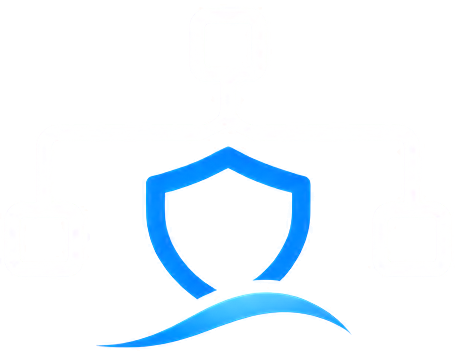
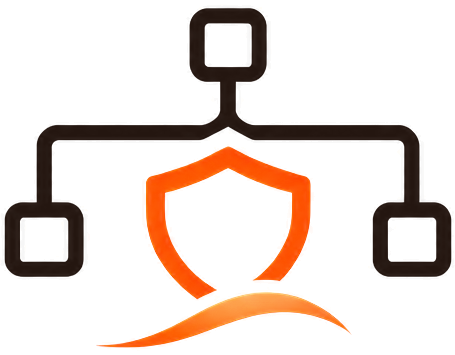
feat(frontend): light theme in the Flame Orange palette (#41)
* feat(frontend): light theme in the Flame Orange palette

Seashell background, Powder Petal secondary/accent/muted and Flame
Orange primary replace the dark theme. Status and brand text get a
darker step than their fills through --text-color-* overrides, so the
badges stay readable on the light surfaces.

* feat(frontend): landing page and logo in the new palette

Changed region(s): [[0.0, 0.0, 1.0, 0.9915]]

diff --git a/apps/frontend/src/index.css b/apps/frontend/src/index.css
@@ -6,7 +6,28 @@
 @custom-variant dark (&:is(.dark *));
 
 @theme inline {
-    --color-brand: oklch(0.65 0.2 255);
+    --color-brand: var(--primary);
+    /* Text only: on the light surfaces these tones need a darker step than their fills and borders. */
+    --text-color-brand: #c23e00;
+    --text-color-emerald-400: var(--color-emerald-700);
+    --text-color-emerald-500: var(--color-emerald-700);
+    --text-color-red-400: var(--color-red-700);
+    --text-color-red-500: var(--color-red-700);
+    --text-color-red-600: var(--color-red-700);
+    --text-color-orange-400: var(--color-orange-700);
+    --text-color-orange-500: var(--color-orange-700);
+    --text-color-orange-600: var(--color-orange-700);
+    /* Amber text is the yellow step: amber-700 is too close to orange-700 on this palette. */
+    --text-color-amber-200: var(--color-amber-900);
+    --text-color-amber-400: var(--color-yellow-700);
+    --text-color-amber-500: var(--color-yellow-700);
+    --text-color-amber-600: var(--color-yellow-700);
+    --text-color-sky-400: var(--color-sky-700);
+    --text-color-sky-500: var(--color-sky-700);
+    --text-color-sky-600: var(--color-sky-700);
+    --text-color-violet-400: var(--color-violet-700);
+    --text-color-fuchsia-400: var(--color-fuchsia-700);
+    --text-color-fuchsia-600: var(--color-fuchsia-700);
     --font-heading: var(--font-sans);
     --font-sans: 'Geist Variable', sans-serif;
     --color-sidebar-ring: var(--sidebar-ring);
@@ -50,72 +71,38 @@
 }
 
 :root {
-    --background: oklch(1 0 0);
-    --foreground: oklch(0.145 0 0);
-    --card: oklch(1 0 0);
-    --card-foreground: oklch(0.145 0 0);
-    --popover: oklch(1 0 0);
-    --popover-foreground: oklch(0.145 0 0);
-    --primary: oklch(0.205 0 0);
-    --primary-foreground: oklch(0.985 0 0);
-    --secondary: oklch(0.97 0 0);
-    --secondary-foreground: oklch(0.205 0 0);
-    --muted: oklch(0.97 0 0);
-    --muted-foreground: oklch(0.556 0 0);
-    --accent: oklch(0.97 0 0);
-    --accent-foreground: oklch(0.205 0 0);
-    --destructive: oklch(0.577 0.245 27.325);
-    --border: oklch(0.922 0 0);
-    --input: oklch(0.922 0 0);
-    --ring: oklch(0.708 0 0);
-    --chart-1: oklch(0.87 0 0);
-    --chart-2: oklch(0.556 0 0);
-    --chart-3: oklch(0.439 0 0);
-    --chart-4: oklch(0.371 0 0);
-    --chart-5: oklch(0.269 0 0);
+    --background: #fff1eb;
+    --foreground: #241610;
+    --card: #fffaf7;
+    --card-foreground: #241610;
+    --popover: #fffaf7;
+    --popover-foreground: #241610;
+    --primary: #fd5200;
+    --primary-foreground: #241610;
+    --secondary: #ffe3d6;
+    --secondary-foreground: #241610;
+    --muted: #ffe3d6;
+    --muted-foreground: #775a4e;
+    --accent: #ffe3d6;
+    --accent-foreground: #241610;
+    --destructive: #c2152f;
+    --border: #efcdbd;
+    --input: #e8bfac;
+    --ring: #fd5200;
+    --chart-1: #ffb48a;
+    --chart-2: #fd5200;
+    --chart-3: #c23e00;
+    --chart-4: #8a2f0a;
+    --chart-5: #552110;
     --radius: 0.625rem;
-    --sidebar: oklch(0.985 0 0);
-    --sidebar-foreground: oklch(0.145 0 0);
-    --sidebar-primary: oklch(0.205 0 0);
-    --sidebar-primary-foreground: oklch(0.985 0 0);
-    --sidebar-accent: oklch(0.97 0 0);
-    --sidebar-accent-foreground: oklch(0.205 0 0);
-    --sidebar-border: oklch(0.922 0 0);
-    --sidebar-ring: oklch(0.708 0 0);
-}
-
-.dark {
-    --background: oklch(0.13 0.02 260);
-    --foreground: oklch(0.985 0 0);
-    --card: oklch(0.18 0.025 260);
-    --card-foreground: oklch(0.985 0 0);
-    --popover: oklch(0.205 0 0);
-    --popover-foreground: oklch(0.985 0 0);
-    --primary: oklch(0.65 0.2 255);
-    --primary-foreground: oklch(0.985 0 0);
-    --secondary: oklch(0.269 0 0);
-    --secondary-foreground: oklch(0.985 0 0);
-    --muted: oklch(0.269 0 0);
-    --muted-foreground: oklch(0.708 0 0);
-    --accent: oklch(0.269 0 0);
-    --accent-foreground: oklch(0.985 0 0);
-    --destructive: oklch(0.704 0.191 22.216);
-    --border: oklch(1 0 0 / 10%);
-    --input: oklch(1 0 0 / 15%);
-    --ring: oklch(0.556 0 0);
-    --chart-1: oklch(0.87 0 0);
-    --chart-2: oklch(0.556 0 0);
-    --chart-3: oklch(0.439 0 0);
-    --chart-4: oklch(0.371 0 0);
-    --chart-5: oklch(0.269 0 0);
-    --sidebar: oklch(0.205 0 0);
-    --sidebar-foreground: oklch(0.985 0 0);
-    --sidebar-primary: oklch(0.488 0.243 264.376);
-    --sidebar-primary-foreground: oklch(0.985 0 0);
-    --sidebar-accent: oklch(0.269 0 0);
-    --sidebar-accent-foreground: oklch(0.985 0 0);
-    --sidebar-border: oklch(1 0 0 / 10%);
-    --sidebar-ring: oklch(0.556 0 0);
+    --sidebar: #fffaf7;
+    --sidebar-foreground: #241610;
+    --sidebar-primary: #fd5200;
+    --sidebar-primary-foreground: #241610;
+    --sidebar-accent: #ffe3d6;
+    --sidebar-accent-foreground: #241610;
+    --sidebar-border: #efcdbd;
+    --sidebar-ring: #fd5200;
 }
 
 @layer base {
@@ -155,13 +142,12 @@
   .wave-ribbon { animation: none; }
 }
 
-/* Reports print on white paper: the dark theme's tokens switch to the light ones. */
+/* Reports print on white paper: the tinted surfaces switch to neutral ones. */
 @media print {
   @page {
     margin: 14mm 12mm;
   }
-  .dark {
-    color-scheme: light;
+  :root {
     --background: oklch(1 0 0);
     --foreground: oklch(0.145 0 0);
     --card: oklch(1 0 0);

diff --git a/apps/frontend/src/features/landing/components/wave-background.tsx b/apps/frontend/src/features/landing/components/wave-background.tsx
@@ -7,7 +7,7 @@ const RIBBONS = [
 
 export function WaveBackground() {
   return (
-    <div aria-hidden className="pointer-events-none absolute inset-0 overflow-hidden bg-[#010409]">
+    <div aria-hidden className="pointer-events-none absolute inset-0 overflow-hidden bg-background">
       <svg
         className="size-full"
         viewBox="0 0 1672 941"
@@ -16,13 +16,13 @@ export function WaveBackground() {
       >
         <defs>
           <linearGradient id="wave-stroke" x1="0" y1="0" x2="1" y2="0">
-            <stop offset="0" stopColor="#0a4dff" stopOpacity="0.9" />
-            <stop offset="0.5" stopColor="#1d8bff" stopOpacity="0.55" />
-            <stop offset="1" stopColor="#3aa0ff" stopOpacity="0.95" />
+            <stop offset="0" stopColor="#fd5200" stopOpacity="0.9" />
+            <stop offset="0.5" stopColor="#ff8a4c" stopOpacity="0.55" />
+            <stop offset="1" stopColor="#ffa545" stopOpacity="0.95" />
           </linearGradient>
           <radialGradient id="wave-glow" cx="0.5" cy="0.45" r="0.6">
-            <stop offset="0" stopColor="#0b2a6b" stopOpacity="0.35" />
-            <stop offset="1" stopColor="#010409" stopOpacity="0" />
+            <stop offset="0" stopColor="#ffe3d6" stopOpacity="0.9" />
+            <stop offset="1" stopColor="#fff1eb" stopOpacity="0" />
           </radialGradient>
           <filter id="wave-blur" x="-10%" y="-30%" width="120%" height="160%">
             <feGaussianBlur stdDeviation="22" />
@@ -40,7 +40,7 @@ export function WaveBackground() {
           </g>
         ))}
       </svg>
-      <div className="absolute inset-0 bg-linear-to-b from-transparent via-transparent to-[#010409]/80" />
+      <div className="absolute inset-0 bg-linear-to-b from-transparent via-transparent to-background/80" />
     </div>
   );
 }

diff --git a/apps/frontend/src/features/landing/components/landing-header.tsx b/apps/frontend/src/features/landing/components/landing-header.tsx
@@ -17,14 +17,14 @@ export function LandingHeader({ signInHref, ctaHref }: { signInHref: string; cta
     <header className="relative z-10 mx-auto grid w-full max-w-[1500px] grid-cols-[1fr_auto_1fr] items-center px-6 py-5 sm:px-10">
       <Link to="/" className="flex items-center gap-3 justify-self-start">
         <Logo variant="icon" label={t("landing.logoAlt")} className="w-16" />
-        <span className="text-3xl font-bold tracking-tight text-white">
+        <span className="text-3xl font-bold tracking-tight text-foreground">
           Sub<span className="text-brand">Surf</span>
         </span>
       </Link>
 
       <nav aria-label={t("landing.nav.label")} className="hidden items-center gap-14 justify-self-center md:flex">
         {NAV_ITEMS.map(({ key, href }) => (
-          <a key={key} href={href} className="text-white/90 transition-colors hover:text-brand">
+          <a key={key} href={href} className="text-foreground/90 transition-colors hover:text-brand">
             {t(`landing.nav.${key}`)}
           </a>
         ))}
@@ -34,11 +34,11 @@ export function LandingHeader({ signInHref, ctaHref }: { signInHref: string; cta
         <button
           type="button"
           onClick={() => void i18n.changeLanguage(nextLanguage)}
-          className="text-sm text-white/60 transition-colors hover:text-white"
+          className="text-sm text-foreground/60 transition-colors hover:text-foreground"
         >
           {t("language.switchTo")}
         </button>
-        <Link to={signInHref} className="hidden text-white/90 transition-colors hover:text-white sm:block">
+        <Link to={signInHref} className="hidden text-foreground/90 transition-colors hover:text-foreground sm:block">
           {t("landing.signIn")}
         </Link>
         <Link

diff --git a/apps/frontend/src/app/routes/scan-visualize.tsx b/apps/frontend/src/app/routes/scan-visualize.tsx
@@ -255,7 +255,7 @@ export function ScanVisualizeRoute() {
         style: nodeStyle,
         draggable: false,
       });
-      nextEdges.push({ id: `${parentId}:${branch.id}`, source: parentId, target: branch.id, type: "smoothstep", style: { stroke: "#64748b", strokeWidth: 2 } });
+      nextEdges.push({ id: `${parentId}:${branch.id}`, source: parentId, target: branch.id, type: "smoothstep", style: { stroke: "var(--muted-foreground)", strokeWidth: 2 } });
     }
     return { nodes: nextNodes, edges: nextEdges };
   }, [tree, visible, expanded, t, th, activateNode, canCreateTargets, canTagHosts, openNodeAction]);
@@ -278,8 +278,8 @@ export function ScanVisualizeRoute() {
         <Card className="p-8 text-center text-muted-foreground">{t("scans.visualization.empty")}</Card>
       ) : (
         <Card className="h-[min(72vh,800px)] min-h-96 overflow-hidden p-0">
-          <ReactFlow nodes={nodes} edges={edges} onNodeClick={(_, node) => activateNode(node.id)} nodesDraggable={false} nodesConnectable={false} elementsSelectable={false} fitView minZoom={0.1} maxZoom={2} className="bg-background">
-            <Background color="#334155" gap={24} size={1} />
+          <ReactFlow nodes={nodes} edges={edges} onNodeClick={(_, node) => activateNode(node.id)} nodesDraggable={false} nodesConnectable={false} elementsSelectable={false} fitView minZoom={0.1} maxZoom={2} forceColorMode="light" className="bg-background">
+            <Background color="var(--input)" gap={24} size={1} />
             <Controls showInteractive={false} />
             <FitVisibleNodes count={nodes.length} />
           </ReactFlow>

diff --git a/apps/frontend/src/features/landing/components/hero.tsx b/apps/frontend/src/features/landing/components/hero.tsx
@@ -11,7 +11,7 @@ export function Hero({ ctaHref }: { ctaHref: string }) {
     <section className="mx-auto flex max-w-4xl flex-col items-center px-6 text-center">
       <Logo variant="full" label={t("landing.logoAlt")} className="w-64 sm:w-80" />
 
-      <h1 className="mt-6 text-3xl leading-tight font-bold tracking-tight text-white sm:text-4xl">
+      <h1 className="mt-6 text-3xl leading-tight font-bold tracking-tight text-foreground sm:text-4xl">
         {t("landing.headline.line1")}
         <br />
         <span className="text-brand">{t("landing.headline.line2")}</span>
@@ -19,7 +19,7 @@ export function Hero({ ctaHref }: { ctaHref: string }) {
 
       <Link
         to={ctaHref}
-        className="mt-8 flex items-center gap-3 rounded-full bg-brand px-8 py-4 text-lg font-medium text-white shadow-[0_0_40px_-8px] shadow-brand transition-colors hover:bg-brand/90"
+        className="mt-8 flex items-center gap-3 rounded-full bg-brand px-8 py-4 text-lg font-medium text-primary-foreground shadow-[0_0_40px_-8px] shadow-brand transition-colors hover:bg-brand/90"
       >
         {t("landing.getStarted")}
         <ArrowRight className="size-5" />

diff --git a/apps/frontend/src/features/landing/components/feature-strip.tsx b/apps/frontend/src/features/landing/components/feature-strip.tsx
@@ -19,10 +19,10 @@ export function FeatureStrip() {
       {FEATURES.map(({ key, Icon }) => (
         <li
           key={key}
-          className="flex flex-col items-center gap-3 text-center md:border-l md:border-white/15 md:first:border-l-0"
+          className="flex flex-col items-center gap-3 text-center md:border-l md:border-foreground/15 md:first:border-l-0"
         >
           <Icon className="size-10 text-brand" strokeWidth={1.5} />
-          <span className="max-w-32 text-white/90">{t(`landing.features.${key}`)}</span>
+          <span className="max-w-32 text-foreground/90">{t(`landing.features.${key}`)}</span>
         </li>
       ))}
     </ul>

diff --git a/apps/frontend/src/components/ui/sonner.tsx b/apps/frontend/src/components/ui/sonner.tsx
@@ -1,11 +1,11 @@
 import { Toaster as Sonner, type ToasterProps } from "sonner"
 import { CircleCheckIcon, InfoIcon, TriangleAlertIcon, OctagonXIcon, Loader2Icon } from "lucide-react"
 
-// The app is dark-only (`class="dark"` on <html>), so no next-themes.
+// The app has one light theme, so no next-themes.
 const Toaster = ({ ...props }: ToasterProps) => {
   return (
     <Sonner
-      theme="dark"
+      theme="light"
       className="toaster group"
       icons={{
         success: (

diff --git a/apps/frontend/src/app/routes/landing.tsx b/apps/frontend/src/app/routes/landing.tsx
@@ -5,7 +5,7 @@ import { WaveBackground } from "@/features/landing/components/wave-background";
 
 export function LandingRoute() {
   return (
-    <div className="relative flex min-h-svh flex-col overflow-hidden text-white">
+    <div className="relative flex min-h-svh flex-col overflow-hidden text-foreground">
       <WaveBackground />
       <LandingHeader signInHref="/login" ctaHref="/app" />
       <main className="relative z-10 flex flex-1 flex-col justify-center gap-14 py-10">

diff --git a/apps/frontend/index.html b/apps/frontend/index.html
@@ -1,5 +1,5 @@
 <!doctype html>
-<html lang="en" class="dark">
+<html lang="en">
   <head>
     <meta charset="UTF-8" />
     <meta name="viewport" content="width=device-width, initial-scale=1.0" />

diff --git a/apps/frontend/README.md b/apps/frontend/README.md
@@ -155,7 +155,7 @@ Sign-in, sessions and RBAC are enforced by the backend ([backend README](../back
 - A list whose rows hold inputs (the target entry form's list) uses the `Table` primitives with keys from the data instead of `DataTable`: `DataTable` rebuilds when `data` changes, which would remount an input while someone types in it.
 - A page with unsaved input the user built up (the target entry form) asks before leaving: `useLeaveGuard` in `features/targets/hooks/` (`useBlocker` + `beforeunload`).
 - Details that do not fit a row open in a `Sheet` (`components/ui/sheet.tsx`, a side panel on the Radix dialog). It was written by hand: `shadcn add sheet` also tried to add an unrelated npm package.
-- The app is dark-only (`class="dark"` in `index.html`); `brand` is the accent color (`text-brand`, `bg-brand/15`).
+- The app has one light theme: the tokens in `:root` of `index.css` (Seashell background, Powder Petal `secondary`/`accent`/`muted`, Flame Orange `primary`). `brand` is the accent color (`bg-brand/15`, `border-brand`). As text it is a darker step (`text-brand`), and so are the status tones (`text-emerald-500`, `text-amber-500`, …): the `--text-color-*` overrides in `@theme` darken text only, so fills and borders keep the vivid step.
 
 ## Reports
 
@@ -163,7 +163,7 @@ Sign-in, sessions and RBAC are enforced by the backend ([backend README](../back
 
 - **Routes:** `scans/:scanId/:kind` (`summary`, `findings`, `technologies`, `exposure`, `triage`, `tags`), `diff?from=&to=`, `ips/:ip`, `stability?window=&inactiveAfter=`, `time-of-day?scans=`. Options live in the URL, so a report can be shared and reloaded.
 - **`ReportShell`** (`components/report-parts.tsx`) gives every report its header, the generated-at line and three actions: **Print / PDF** (`window.print()`), **JSON** (the API response as is) and **CSV** (one flat table per report, built in the report's component).
-- **Print:** the `@media print` block in `index.css` switches the dark tokens to light ones; the sidebar, controls and buttons carry `print:hidden`. `ReportTable` shows the first rows on screen with a toggle, but every row on paper.
+- **Print:** the `@media print` block in `index.css` switches the tinted tokens to neutral ones; the sidebar, controls and buttons carry `print:hidden`. `ReportTable` shows the first rows on screen with a toggle, but every row on paper.
 - **CSV** (`lib/export.ts`): UTF-8 with a BOM for Excel, and cells starting with `=`, `+`, `-` or `@` are prefixed with `'` so a spreadsheet does not run them as formulas.
 
 ## Translations
